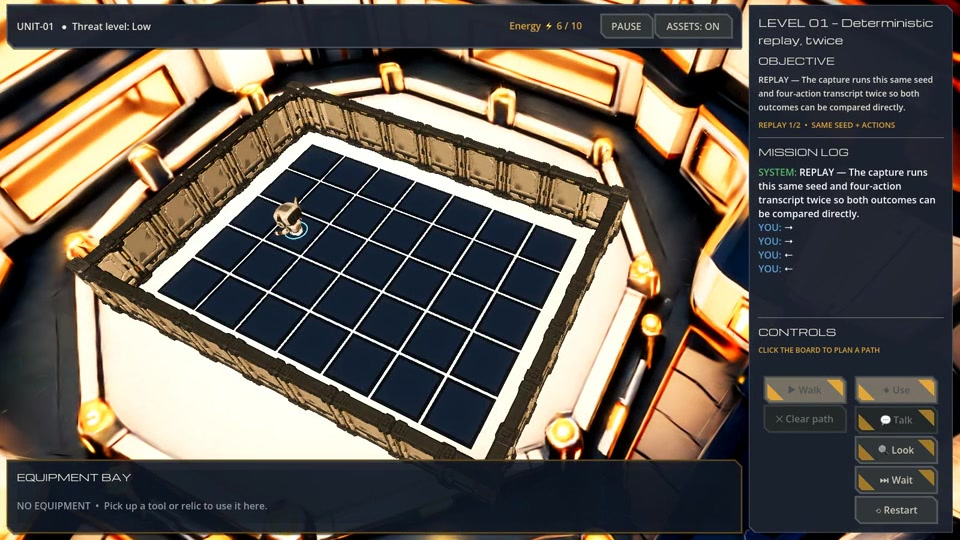
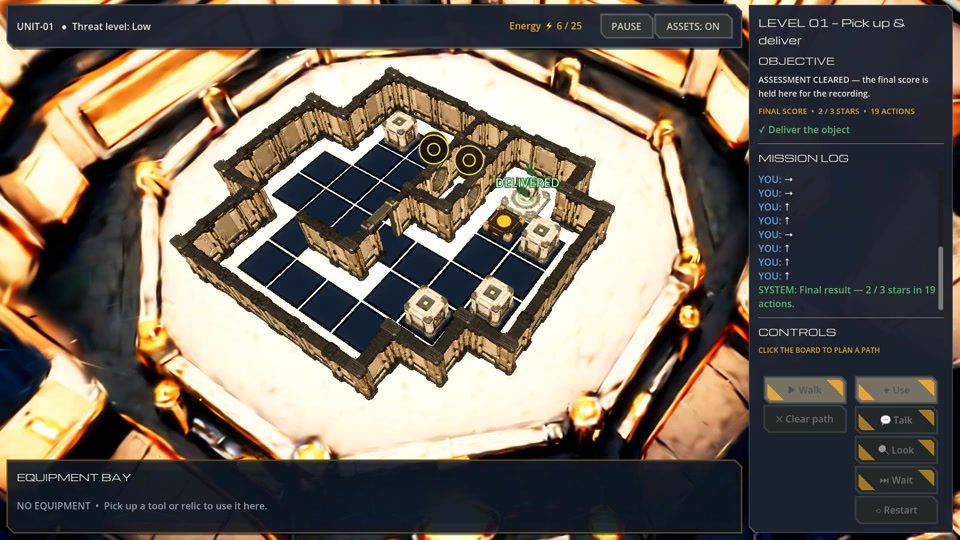
docs: publish full Story Level 1 replay verification

diff --git a/docs/mechanisms/replay.md b/docs/mechanisms/replay.md
@@ -77,5 +77,5 @@ instead of being accepted as a leaderboard result.
     <source src="/mechanisms/replay.mp4" type="video/mp4">
     Your browser does not support embedded video.
   </video>
-  <figcaption>Focused Zonoid demo board: the same seed and four-action transcript run twice, reproducing the same board states.</figcaption>
+  <figcaption>Zonoid Story Level 1: the same seed and solver-verified 19-action solution runs twice to completion, producing an identical final state.</figcaption>
 </figure>